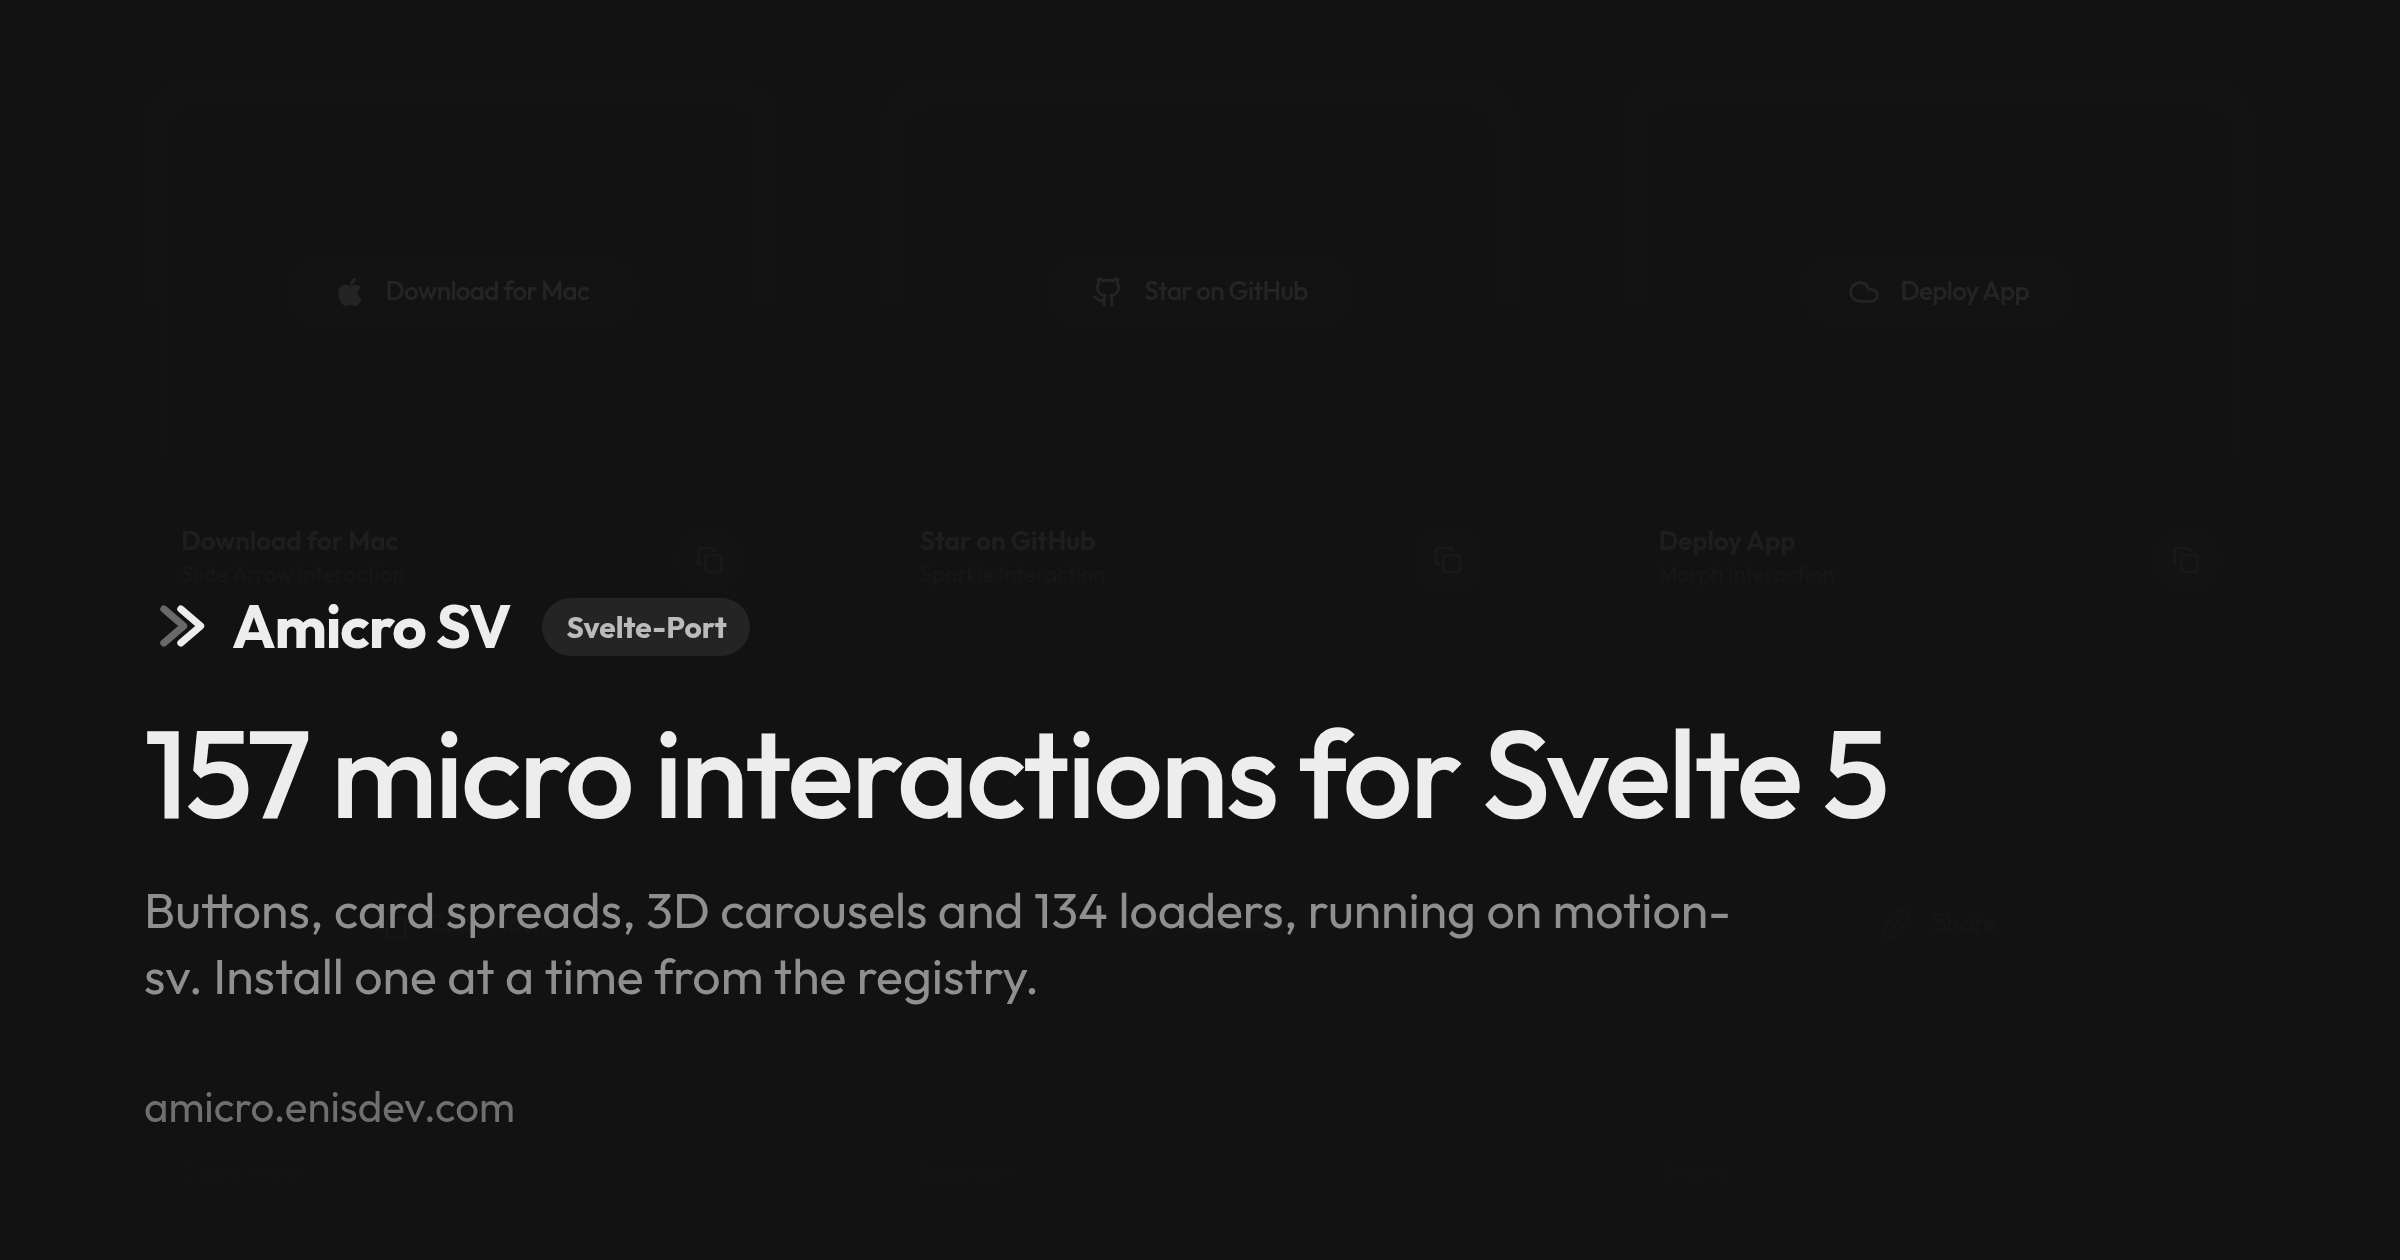
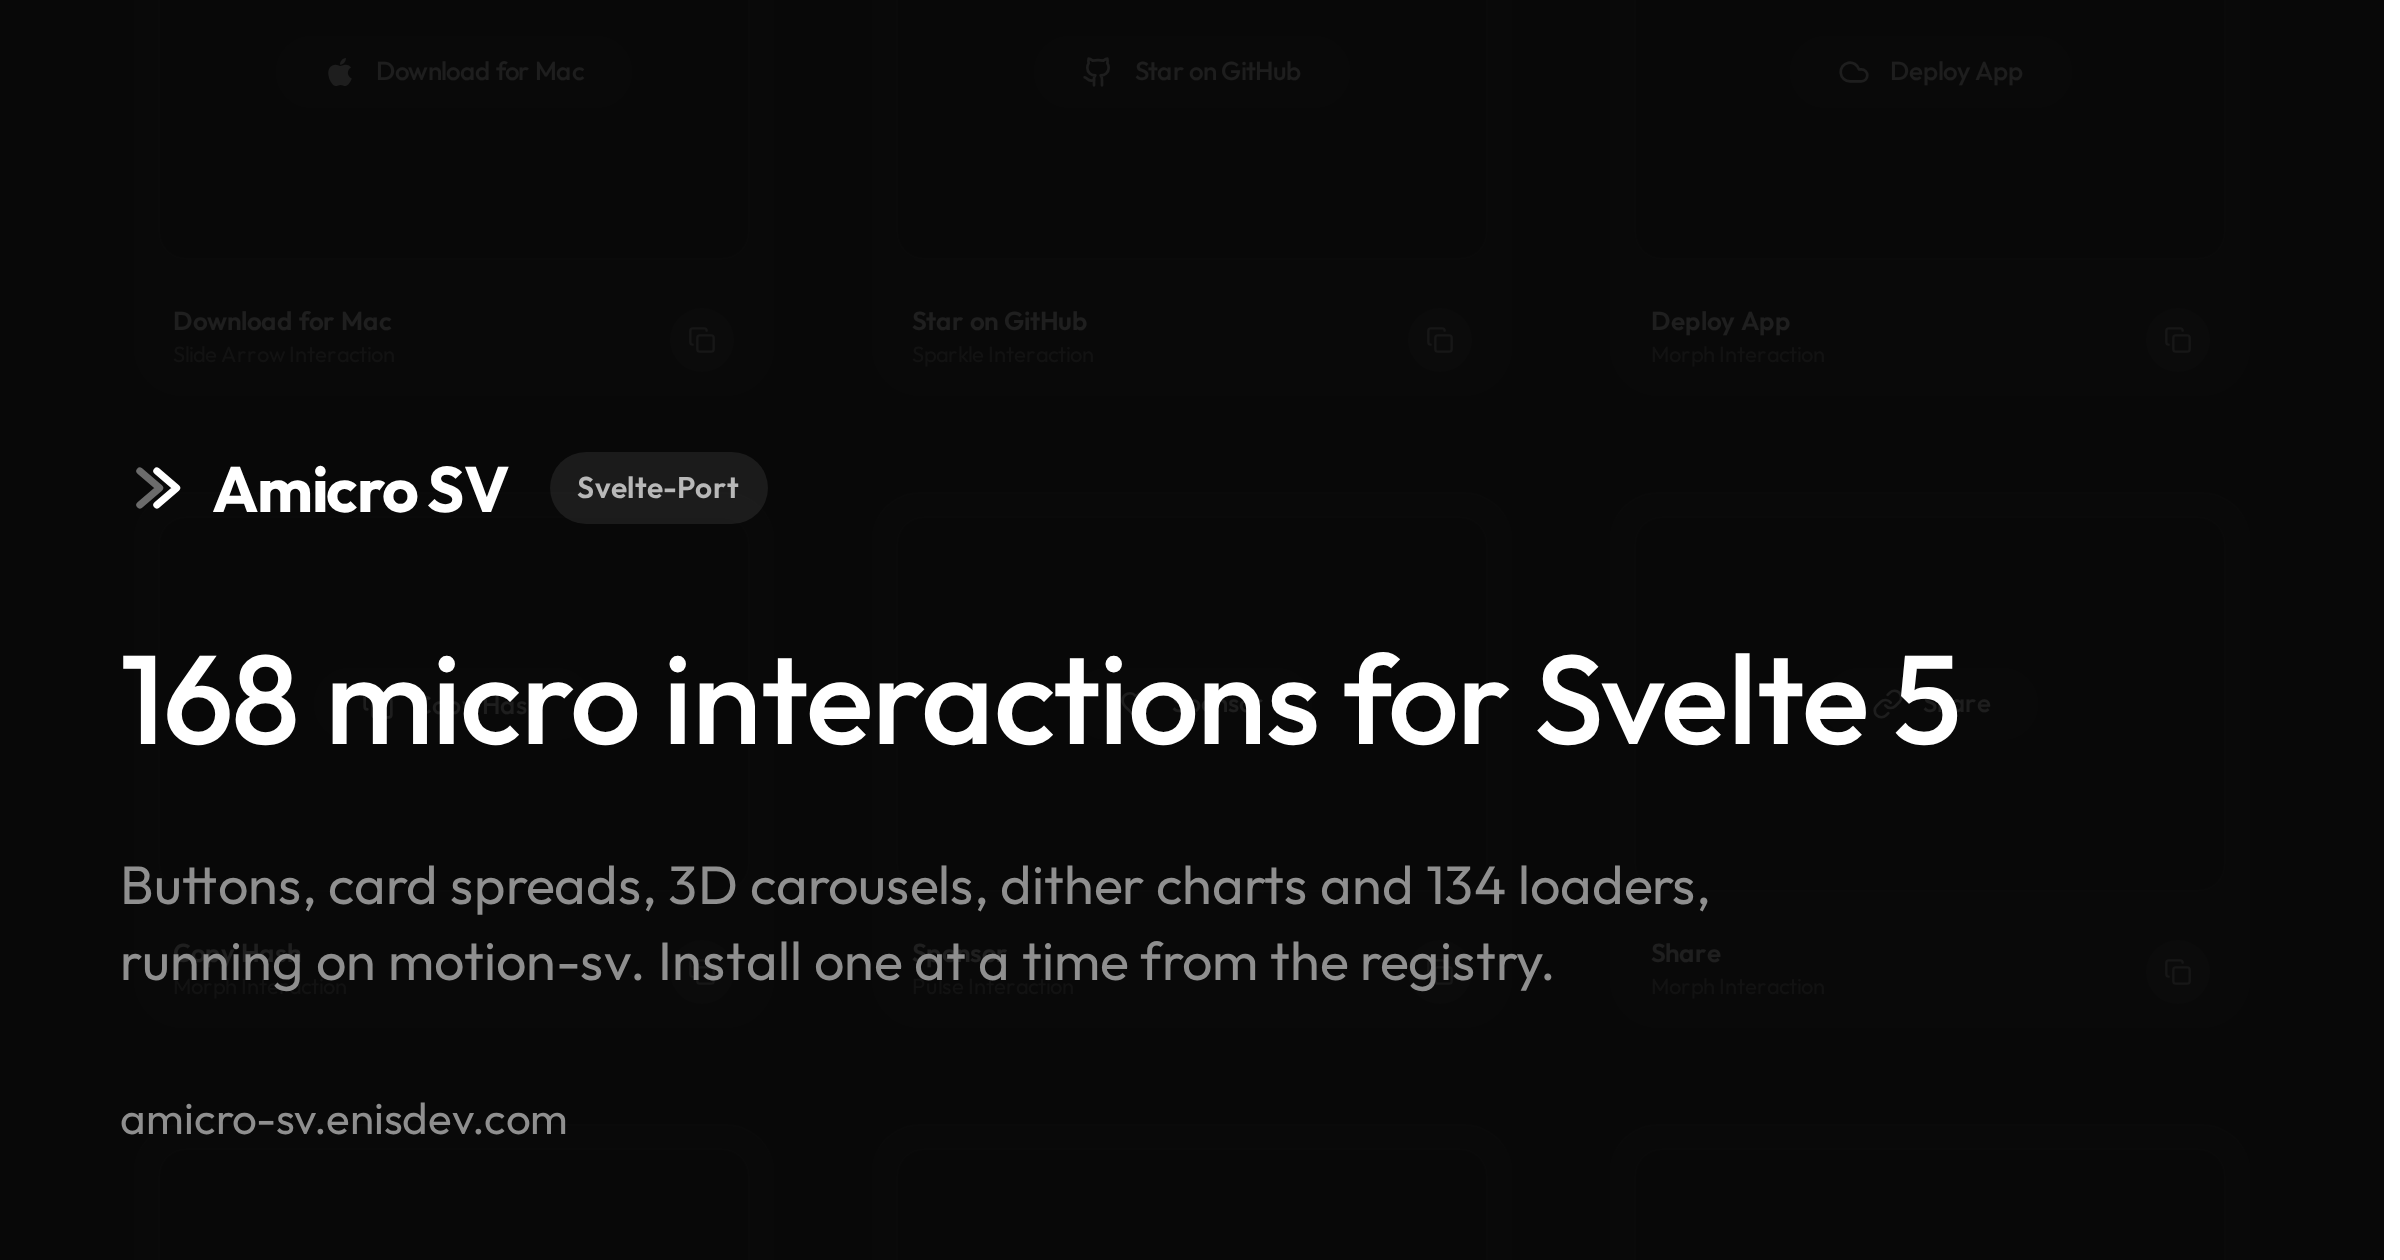
Refresh the OG card to 168 and script its generation
The card still said 157 and the old domain. It is now rendered by
scripts/generate-og.mjs (pnpm og:build, needs pnpm dev running): a
screenshot of the catalog behind a dark overlay carrying the current
headline, subline and domain, so the next count change is a one line
edit. The README also drops the folder paths from the stress test
paragraph, readers do not need the internal layout.

diff --git a/README.md b/README.md
@@ -18,7 +18,7 @@
 > [!NOTE]
 > Port of the React library [Amicro](https://github.com/Subhan-code/Amicro--Micro-transitions-) by [Syed Subhan](https://x.com/SubhanHQ). He designed every interaction, this repo rebuilds them on Svelte 5 and [motion-sv](https://github.com/hanielu/motion-svelte). Provenance and license: [NOTICE.md](NOTICE.md).
 
-motion-sv is the best Motion port for Svelte I know of, and this site is the stress test: 168 components that exist in React, rebuilt to show what carries over and where Svelte and React actually diverge. 157 live in `src/lib/amicro/`, the 11 dither charts in `src/lib/app/components/dither-charts/`.
+motion-sv is the best Motion port for Svelte I know of, and this site is the stress test: 168 components that exist in React, rebuilt to show what carries over and where Svelte and React actually diverge.
 
 ## Install
 
